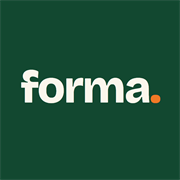
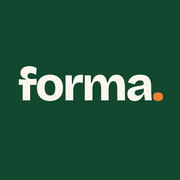
Assistente: qualquer dado do app e orientações; ícone novo
O Pergunte ao forma passa a receber também plano com séries, o que foi
comido hoje e o que falta para as metas, cardio, passos e batimentos,
bioimpedância, medidas, suplementos e jejum, e pode dar orientações
(o que comer, como ajustar o treino), sempre com os números do aluno.

Ícone: "forma." maior e totalmente opaco (o iPhone pintava de preto
as bordas semitransparentes do anterior).

Claude-Session: https://claude.ai/code/session_013LjvqYCfTuANh5AqZ9RweB

Changed region(s): [[0.0833, 0.3611, 0.9167, 0.5833], [0.4722, 0.5556, 0.5278, 0.5833]]

diff --git a/src/lib/coach.ts b/src/lib/coach.ts
@@ -1,8 +1,12 @@
 import { BEST_MODELS, generateJson, Schema } from "./ai";
 import { foodsKey, readCloudOnce, waterKey } from "./cloud-store";
-import { FEEL_LABEL, targets, type FoodEntry, type Profile, type WaterLog, type WeightEntry, type WorkoutRecord } from "./store";
+import { FEEL_LABEL, KEYS, targets, type BodyEntry, type FoodEntry, type MeasureEntry, type Profile, type WaterLog, type WeightEntry, type WorkoutRecord } from "./store";
 import { bestSets, recordTotal, strengthHistory } from "./workout-stats";
-import { stravaKey, type StravaActivity } from "./strava";
+import { sportLabel, stravaKey, type StravaActivity } from "./strava";
+import { cardioAsActivity, cardioKey, type CardioRecord } from "./cardio";
+import { doseLabel, SUPPLEMENTS_KEY, type Supplement } from "./supplements";
+import type { Fast, FastRecord } from "./fasting";
+import { byId } from "./exercises";
 import { healthKey, type HealthMonth } from "./health";
 import { addDays, readSleep, readWeight } from "./insights";
 import { weekStart, weekStats } from "./week";
@@ -22,13 +26,16 @@ const FOCUS_LABEL: Record<Profile["focus"], string> = {
 };
 
 const SYSTEM = `Você é o assistente do forma, um app brasileiro de treino e alimentação. Atua como treinador e nutricionista do aluno.
-Responda em português do Brasil, com tom próximo e direto, em no máximo 6 frases curtas (ou uma lista curta quando ajudar).
-Use SOMENTE os dados recebidos em "dados"; nunca invente números. Escreva números no formato brasileiro (80,45 kg; 2.065 kcal).
-Se a pergunta pedir algo que não está nos dados (por exemplo, sem registros), diga que ainda não há registro e sugira como registrar no app.
-Sobre carga, use "forca" (primeira e última carga mais pesada de cada exercício, e a melhor série) e "treinos" (os mais recentes, com a carga total = soma de peso × repetições).
-Sobre alimentação, use "metas" e "alimentacao" (totais de cada dia registrado nos últimos 14 dias).
-Sobre peso, use "peso": tendencia é kg por semana (negativo = perdendo), previsaoMeta é a data prevista para a meta.
-Não dê diagnóstico médico nem recomende remédios. Suplemento só em termos gerais. Se o assunto fugir de treino, alimentação, sono ou saúde geral, responda em uma frase e volte ao tema.`;
+Responda em português do Brasil, com tom próximo e direto, em até 8 frases curtas ou uma lista curta quando ajudar.
+O aluno pode perguntar sobre qualquer coisa que o app registra (treinos, cargas, plano, cardio, alimentação, água, suplementos, jejum, peso, bioimpedância, medidas, sono, passos, batimentos) e também pedir indicações e orientações: o que comer para fechar as metas do dia, como montar uma refeição, como ajustar o treino, a carga ou o descanso, como dormir melhor, como sair de um platô.
+Regras:
+- Números do aluno: use SOMENTE os de "dados"; nunca invente. Escreva no formato brasileiro (80,45 kg; 2.065 kcal; 1,5 L).
+- Orientações: baseie-se nos dados dele (metas, o que falta hoje em "hojeFalta", o histórico) e em conhecimento geral de treino e nutrição. Seja concreto (alimentos com quantidades caseiras, séries, cargas, horários). Prefira alimentos comuns no Brasil.
+- Se faltar registro para responder, diga isso e explique como registrar no app.
+- Carga: "forca" tem a primeira e a última carga mais pesada de cada exercício e a melhor série; "treinos" traz os mais recentes, com cargaTotalKg = soma de peso × repetições. "plano" traz os treinos do plano com séries × repetições.
+- Peso: "peso.tendencia" é kg por semana (negativo = perdendo); "peso.previsaoMeta" é a data prevista para a meta.
+- Saúde: não dê diagnóstico médico nem indique remédios; diante de dor, lesão, tontura ou sintoma, oriente procurar um profissional. Suplementos só em termos gerais (os que ele já usa estão em "suplementos").
+- Assunto fora de treino, alimentação, sono e saúde geral: responda em uma frase e volte ao tema.`;
 
 const SCHEMA = Schema.object({ properties: { resposta: Schema.string() } });
 
@@ -39,11 +46,18 @@ type Inputs = { uid: string; date: string; profile: Profile; weights: WeightEntr
 /** The person's numbers, computed here (never by the AI), small enough to send with every question. */
 export async function coachData({ uid, date, profile, weights, history, plan }: Inputs) {
   const ms = months(date);
-  const [foodMonths, waterMonths, stravaMonths, healthMonths] = await Promise.all([
+  const quiet = <T,>(read: Promise<T>, fallback: T) => read.catch(() => fallback);
+  const [foodMonths, waterMonths, stravaMonths, healthMonths, cardioMonths, body, measures, supplements, fasts, fast] = await Promise.all([
     Promise.all(ms.map((m) => readCloudOnce<FoodEntry[]>(uid, foodsKey(`${m}-01`), []))),
     Promise.all(ms.map((m) => readCloudOnce<WaterLog>(uid, waterKey(`${m}-01`), {}))),
-    Promise.all(ms.map((m) => readCloudOnce<StravaActivity[]>(uid, stravaKey(`${m}-01`), []).catch((): StravaActivity[] => []))),
-    Promise.all(ms.map((m) => readCloudOnce<HealthMonth>(uid, healthKey(`${m}-01`), {}).catch((): HealthMonth => ({})))),
+    Promise.all(ms.map((m) => quiet(readCloudOnce<StravaActivity[]>(uid, stravaKey(`${m}-01`), []), []))),
+    Promise.all(ms.map((m) => quiet(readCloudOnce<HealthMonth>(uid, healthKey(`${m}-01`), {}), {}))),
+    Promise.all(ms.map((m) => quiet(readCloudOnce<CardioRecord[]>(uid, cardioKey(`${m}-01`), []), []))),
+    quiet(readCloudOnce<BodyEntry[]>(uid, KEYS.body, []), []),
+    quiet(readCloudOnce<MeasureEntry[]>(uid, KEYS.measures, []), []),
+    quiet(readCloudOnce<Supplement[]>(uid, SUPPLEMENTS_KEY, []), []),
+    quiet(readCloudOnce<FastRecord[]>(uid, KEYS.fasts, []), []),
+    quiet(readCloudOnce<Fast | null>(uid, KEYS.fast, null), null),
   ]);
   const foods = foodMonths.flat();
   const water: WaterLog = Object.assign({}, ...waterMonths);
@@ -75,6 +89,17 @@ export async function coachData({ uid, date, profile, weights, history, plan }: 
     return [{ exercicio: name, vezes: points.length, primeiraKg: first.kg, primeiraData: first.date, ultimaKg: last.kg, ultimaData: last.date, melhorSerieRecente: last.set }];
   });
 
+  // Cardio of the last 14 days: Strava, plus what was done in the app and Strava hasn't brought yet.
+  const recent = (d: string) => d >= addDays(date, -13) && d <= date;
+  const cardio = [...strava, ...cardioMonths.flat().map(cardioAsActivity)]
+    .filter((a) => recent(a.date) && a.sport !== "WeightTraining")
+    .sort((a, b) => a.date.localeCompare(b.date))
+    .map((a) => ({ data: a.date, atividade: a.id < 0 ? a.name : sportLabel(a.sport), minutos: Math.round(a.movingS / 60), km: Math.round(a.distanceM / 100) / 10 || null, kcal: a.kcal ?? null, fcMedia: a.avgHr ?? null }));
+  const todayFoods = foods.filter((f) => f.date === date);
+  const eaten = todayFoods.reduce((s, f) => ({ kcal: s.kcal + f.kcal, p: s.p + f.p, c: s.c + f.c, f: s.f + f.f }), { kcal: 0, p: 0, c: 0, f: 0 });
+  const sortedBody = [...body].sort((a, b) => a.date.localeCompare(b.date));
+  const sortedMeasures = [...measures].sort((a, b) => a.date.localeCompare(b.date));
+
   const week = (start: string) => weekStats(start, date, { foods, water, weights, history, strava, health, targets: { kcal: t.kcal, waterMl: t.waterMl } });
   const thisWeek = weekStart(date);
 
@@ -86,7 +111,15 @@ export async function coachData({ uid, date, profile, weights, history, plan }: 
       pesoMetaKg: profile.goalWeight,
     },
     metas: { kcal: t.kcal, proteinaG: t.protein, carboidratoG: t.carbs, gorduraG: t.fat, aguaMl: t.waterMl },
-    plano: plan ? { metodo: plan.method, treinos: plan.days.map((d) => d.name) } : null,
+    plano: plan ? {
+      metodo: plan.method,
+      treinos: plan.days.map((d) => ({ nome: d.name, exercicios: d.items.map((it) => `${byId(it.exId).name} ${it.sets}x${it.reps}`) })),
+    } : null,
+    hojeComeu: todayFoods.map((f) => ({ refeicao: f.meal, alimento: f.name, gramas: f.grams, kcal: Math.round(f.kcal), proteinaG: Math.round(f.p) })),
+    hojeFalta: {
+      kcal: Math.round(t.kcal - eaten.kcal), proteinaG: Math.round(t.protein - eaten.p), carboidratoG: Math.round(t.carbs - eaten.c), gorduraG: Math.round(t.fat - eaten.f),
+      aguaMl: t.waterMl - (water[date] ?? 0),
+    },
     peso: {
       atualKg: weight.current, inicioKg: sorted[0]?.kg ?? profile.weight, inicioData: sorted[0]?.date ?? null,
       tendencia: weight.rate, previsaoMeta: weight.eta, metaAtingida: weight.goalReached, perdaRapida: !!weight.fast, parado: !!weight.plateau,
@@ -110,6 +143,16 @@ export async function coachData({ uid, date, profile, weights, history, plan }: 
     semanaAtual: week(thisWeek),
     semanaPassada: week(addDays(thisWeek, -7)),
     sono: readSleep(health, date),
+    saudeUltimos7Dias: Object.entries(health).filter(([d]) => d >= addDays(date, -6) && d <= date).sort(([a], [b]) => a.localeCompare(b))
+      .map(([d, h]) => ({ data: d, passos: h.steps ?? null, sonoMin: h.sleepMin ?? null, fcRepouso: h.restingHr ?? null, vo2max: h.vo2max ?? null, kcalAtivas: h.activeKcal ?? null })),
+    cardio,
+    bioimpedancia: sortedBody.length ? { primeira: sortedBody[0], ultimas: sortedBody.slice(-3) } : null,
+    medidasCm: sortedMeasures.length ? { primeira: sortedMeasures[0], ultima: sortedMeasures.at(-1) } : null,
+    suplementos: supplements.map((s) => `${s.name} ${doseLabel(s)}`),
+    jejum: {
+      emAndamentoHoras: fast ? Math.round(((Date.now() - fast.startedAt) / 3_600_000) * 10) / 10 : null,
+      ultimos: fasts.slice(-5).map((f) => ({ data: new Date(f.endedAt).toISOString().slice(0, 10), horas: Math.round(((f.endedAt - f.startedAt) / 3_600_000) * 10) / 10, metaHoras: f.goalH })),
+    },
   };
 }
 

diff --git a/src/components/CoachChat.tsx b/src/components/CoachChat.tsx
@@ -8,8 +8,9 @@ import { askCoach, COACH_STORAGE_KEY, type CoachMessage } from "@/lib/coach";
 
 const SUGGESTIONS = [
   "Minhas cargas estão evoluindo?",
-  "Estou comendo proteína suficiente?",
+  "O que comer no jantar para fechar a proteína de hoje?",
   "Como foi minha semana?",
+  "Meu sono está atrapalhando o treino?",
   "O que devo melhorar agora?",
 ];
 
@@ -80,7 +81,7 @@ export function CoachChat({ open, onOpenChange }: { open: boolean; onOpenChange:
             <span className="grid h-10 w-10 shrink-0 place-items-center rounded-full bg-primary text-primary-foreground"><Sparkles className="h-5 w-5" aria-hidden /></span>
             <div className="min-w-0 flex-1">
               <DialogPrimitive.Title className="font-display text-lg font-bold leading-tight">Pergunte ao forma</DialogPrimitive.Title>
-              <DialogPrimitive.Description className="text-xs text-muted-foreground">Treinos, cargas, peso e alimentação, com os seus registros</DialogPrimitive.Description>
+              <DialogPrimitive.Description className="text-xs text-muted-foreground">Perguntas e orientações com os seus registros</DialogPrimitive.Description>
             </div>
             {messages.length > 0 && (
               <button type="button" onClick={() => { setMessages([]); setError(null); }} aria-label="Começar nova conversa" title="Nova conversa"
@@ -93,7 +94,7 @@ export function CoachChat({ open, onOpenChange }: { open: boolean; onOpenChange:
             {messages.length === 0 ? (
               <div className="flex flex-col gap-3">
                 <p className="text-sm text-muted-foreground">
-                  Pergunte o que quiser sobre o seu treino e a sua alimentação. As respostas usam os seus números: cargas, séries, peso, calorias, proteína e sono.
+                  Pergunte sobre qualquer coisa que o app registra (treino, cargas, cardio, alimentação, água, peso, medidas, sono) ou peça uma orientação, como o que comer ou como ajustar o treino. As respostas usam os seus números.
                 </p>
                 <div className="flex flex-col gap-2">
                   {SUGGESTIONS.map((s) => (
